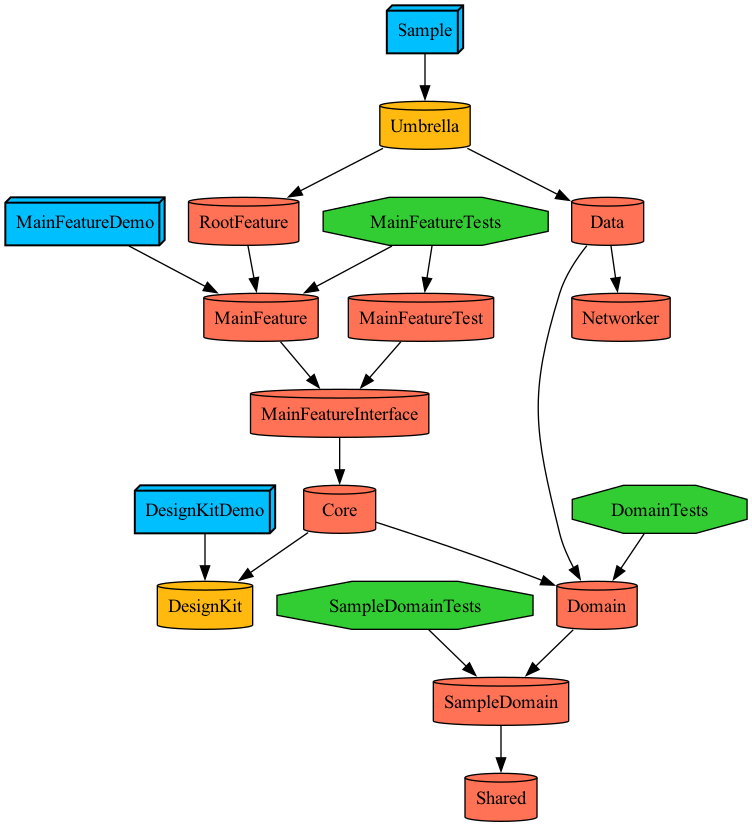
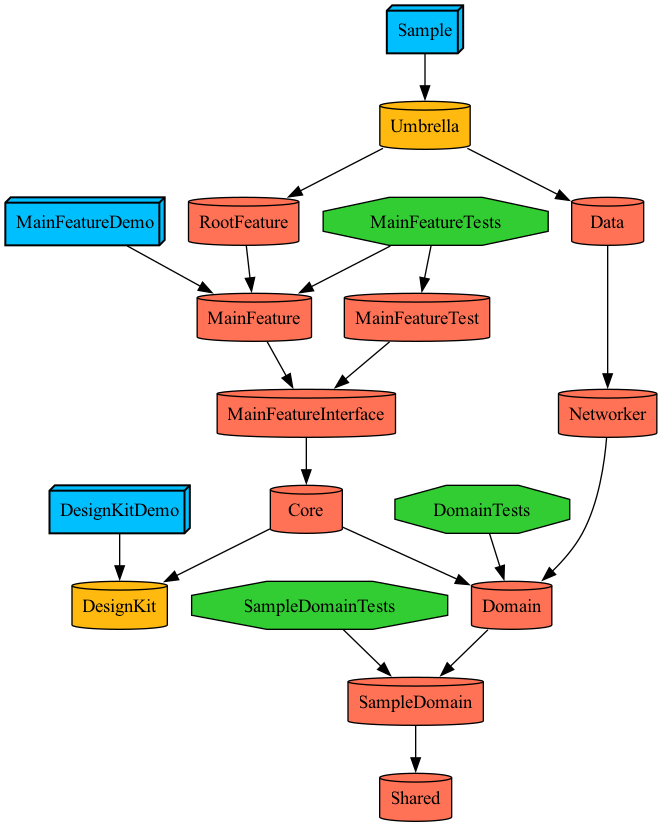
fix. 데이터 모듈 의존성 변경

Changed region(s): [[0.0, 0.0, 0.997, 0.5441], [0.0604, 0.4232, 0.997, 0.9976]]

diff --git a/Sample/Projects/Modules/Networker/Project.swift b/Sample/Projects/Modules/Networker/Project.swift
@@ -12,6 +12,7 @@ let project = Project.configure(
     moduleType: .module(name: "Networker"),
     product: .staticFramework,
     dependencies: [
-        .Library.alamofire
+        .Library.alamofire,
+        .Domain.domain
     ]
 )

diff --git a/Sample/Projects/Data/Data/Project.swift b/Sample/Projects/Data/Data/Project.swift
@@ -12,7 +12,6 @@ let project = Project.configure(
     moduleType: .module(name: "Data"),
     product: .staticFramework,
     dependencies: [
-        .Module.networker,
-        .Domain.domain,
+        .Module.networker
     ]
 )
